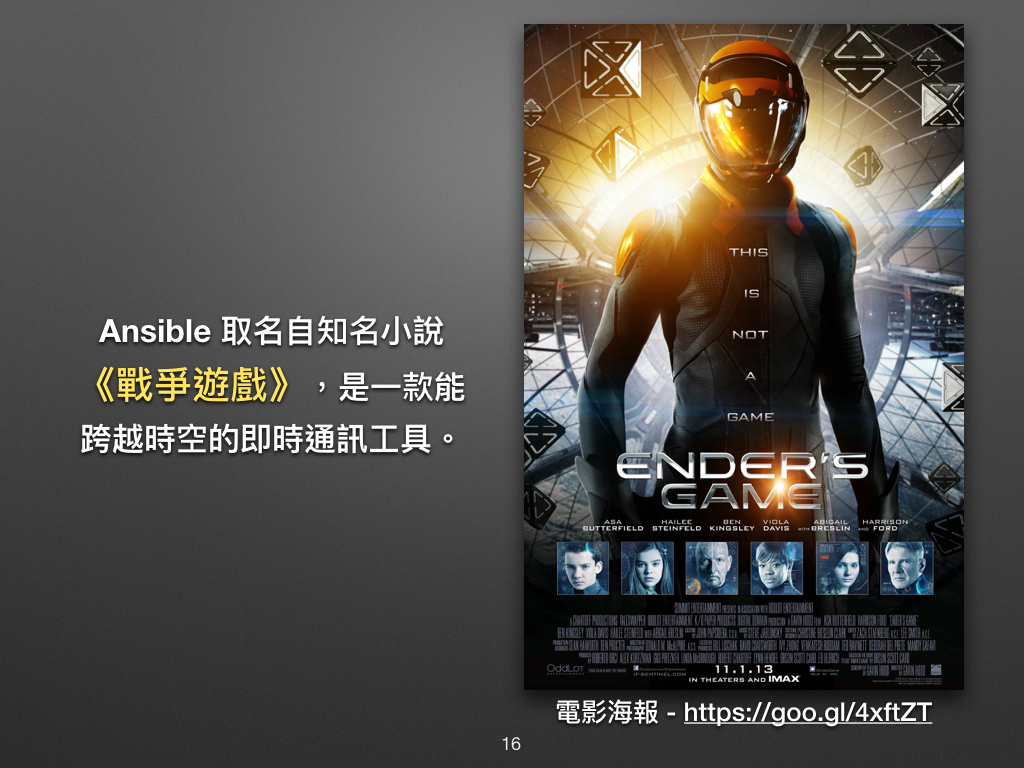
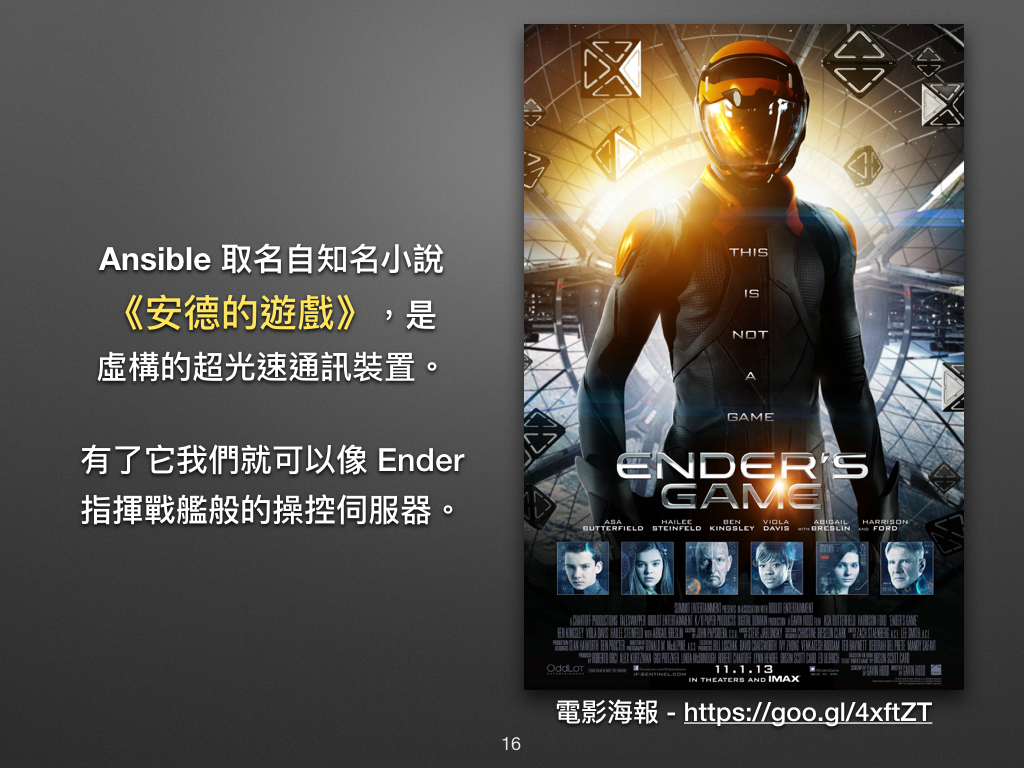
補完 Ansible 的命名由來！
總算是把 Ansible 的命名由來這一塊給搞懂，沒想到
《奔跑吧 Ansible》一書早在第二頁已有說明！

Changed region(s): [[0.0625, 0.3125, 0.4688, 0.6875]]

diff --git a/02.what-is-the-ansible.md b/02.what-is-the-ansible.md
@@ -9,7 +9,11 @@
 
 ### Ansible 的命名由來？
 
-大家或許早在《戰爭遊戲》的電影中就曾看過 [**Ansible**][ansible_enders_game_wiki] 這款能跨越時空的即時通訊工具，因為這是作者他最喜愛小說[《安德的遊戲》][enders_game][^1]而改編的。[^2]
+此名取自 Ansible 作者最喜愛的[《安德的遊戲》][enders_game][^1] 小說，而這部小說更被後人改編成電影 －《戰爭遊戲》。[^2]
+
+大家或許早在電影中就已看過[**安塞波 (Ansible)**][ansible_enders_game_wiki]，它是虛構的超光速通訊裝置。片中主角安德 (Ender) 和他的伙伴們透過 Ansible 跨越時空指揮無數的戰艦，就好比我們操控海量的遠端伺服器一樣。
+
+
 
 [ansible_enders_game_wiki]: http://enderverse.wikia.com/wiki/Ansible
 [enders_game]: https://zh.wikipedia.org/zh-tw/安德的游戏
@@ -79,7 +83,7 @@
 
 [^1]: 戰爭遊戲，又名安德的遊戲 (Ender's Game)，是「奧森·斯科特·卡德」最著名的科幻小說，曾在 2013 年於大銀幕上映。 
 
-[^2]: Ansible 命名的由來可參考 [Ansible FAQ | Ji ZHANG's Blog](http://shzhangji.com/blog/2013/06/11/ansible-faq/) 一文。
+[^2]: Ansible 命名的由來可參考[《奔跑吧 Ansible》][ansiblebook_china]和 [Ansible FAQ | Ji ZHANG's Blog](http://shzhangji.com/blog/2013/06/11/ansible-faq/) 一文。凍仁早在 2013 年就在電影院的大銀幕上看過 Ansible，但一直到了 2016 年才真正的了解它。
 
 [^3]: 組態管理工具要怎麼選？依據分類帽大概可分粗分為 Python 學院 (Ansible, SaltStack) 和 Ruby 學院 (Chef, Puppet)。
 
